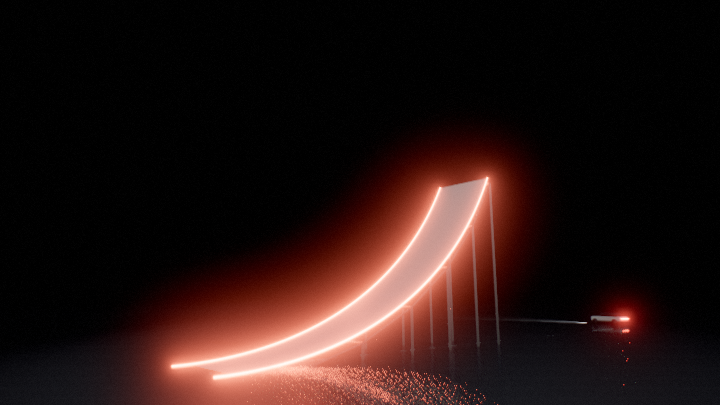
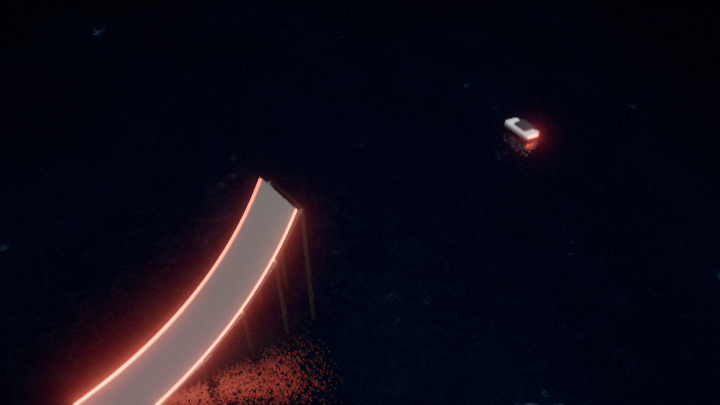
Night Loop: five refinement passes toward the reference
Dimmer night grade: red rim light removed, LED strips and bloom turned down.
A floor pool light follows the drift zone and the car. The overhead orbit is
set back between the ramp and the car, with a wider lens so both stay in frame.

Claude-Session: https://claude.ai/code/session_01CrqiDHUxRRMtQAfhoBc2eP

diff --git a/scenes/night-loop.html b/scenes/night-loop.html
@@ -17391,13 +17391,13 @@ const lerp3=(a,b,s)=>[a[0]+(b[0]-a[0])*s,a[1]+(b[1]-a[1])*s,a[2]+(b[2]-a[2])*s];
 eng.setFog({density:.004,falloff:.04,horizon:[1e6,2e6],rayleigh:0,mie:0,g:.76});
 eng.setClouds({coverage:0});
 eng.setTimeOfDay(-30,200,0);
-eng.setPost({tone:'agx',exposure:1.5,look:[1,1],saturation:1.08,curve:.22,bloom:.35,threshold:.9,knee:.5,grain:.02,chromatic:.003,vignette:.45,dofMaxCoC:10});
+eng.setPost({tone:'agx',exposure:1.5,look:[1,1],saturation:1.08,curve:.22,bloom:.2,threshold:.9,knee:.5,grain:.02,chromatic:.003,vignette:.45,dofMaxCoC:10});
 cam.fstop=2.8;cam.bokehScale=2;cam.shutterAngle=180;
 eng.addObject({m:eng.addMesh(place(genBox(900,.4,900),{mid:[0,-.2,0]})),p:[0,0,0],s:1,rot:[0,0,0],mat:{a:[.022,.022,.026],m:0,r:.5,wet:.5}});
 eng.addObject({m:eng.addMesh(place(genBox(44,.02,.2),{mid:[26,.01,0]})),p:[0,0,0],s:1,rot:[0,0,0],mat:{a:[.7,.7,.68],m:0,r:.6}});
-const flood=eng.addLight({type:'spot',pos:[-40,46,40],dir:[.6,-.6,-.5],color:[1,.96,.9],intensity:900,range:200,angle:.34,inner:.22});
+const flood=eng.addLight({type:'spot',pos:[-40,46,40],dir:[.6,-.6,-.5],color:[1,.96,.9],intensity:500,range:200,angle:.34,inner:.22});
 flood.dir=v3.norm(v3.sub([14,6,-2],flood.pos));
-eng.addLight({type:'point',pos:[18,14,-16],color:[1,.1,.05],intensity:9,range:60});
+const pool=eng.addLight({type:'spot',pos:[57,40,-5],dir:[0,-1,0],color:[1,.97,.92],intensity:250,range:90,angle:.22,inner:.15});
 
 /* ---------- the ramp: a circular arc of radius R, from horizontal on the ground up to 60 degrees; steel frame underneath ---------- */
 const R=24,PHI=Math.PI/3,W=4.4,HALF=W/2;
@@ -17405,10 +17405,10 @@ const curve=ph=>({p:[R*Math.sin(ph),R*(1-Math.cos(ph)),0],T:[Math.cos(ph),Math.s
 eng.addObject({m:eng.addMesh(sweep(56,4,(s,w)=>{const c=curve(s*PHI);return {p:[c.p[0],c.p[1],(w-.5)*W],n:c.N};})),p:[0,0,0],s:1,rot:[0,0,0],mat:{a:[.34,.34,.35],m:0,r:.6,wet:.4}});
 /* red LED edge strips along both kerbs */
 for(const z of [-HALF,HALF]){const pts=[];for(let k=0;k<=40;k++){const c=curve(k/40*PHI);pts.push([c.p[0]+c.N[0]*.06,c.p[1]+c.N[1]*.06,z]);}
- eng.addRibbon({points:pts,width:.09,color:[1,.12,.06],intensity:2.2,taper:false});}
+ eng.addRibbon({points:pts,width:.09,color:[1,.12,.06],intensity:1.6,taper:false});}
 /* steel frame under the outer side of the ramp */
 const steel=[],A=(k,z)=>{const c=curve(k/6*PHI);return [c.p[0]-c.N[0]*.6,c.p[1]-c.N[1]*.6,z];};
-for(let k=0;k<=6;k++){for(const z of [-HALF*.9,HALF*.9]){const a=A(k,z);if(a[1]>.3)steel.push(tube([a[0],0,z],a,.12));}
+for(let k=0;k<=6;k++){for(const z of [-HALF*.9,HALF*.9]){const a=A(k,z);if(a[1]>.3)steel.push(tube([a[0],0,z],a,.16));}
  if(k>=2)steel.push(tube(A(k,-HALF*.9),A(k,HALF*.9),.1));
  if(k<6)for(const z of [-HALF*.9,HALF*.9])steel.push(tube(A(k,z),A(k+1,z),.08));}
 eng.addObject({m:eng.addMesh(mergeG(steel)),p:[0,0,0],s:1,rot:[0,0,0],mat:{a:[.12,.12,.13],m:.8,r:.4}});
@@ -17462,7 +17462,7 @@ function shot(T){
  if(T<14){const c=carPose(T).pos;return {pos:[36,2.4,14],tgt:v3.add(c,[0,1,0]),fov:44,focus:c};}
  if(T<22){const s=(T-14)/8;return {pos:lerp3([30,46,40],[26,58,30],s),tgt:[30,0,-2],fov:50,focus:[30,0,-2]};}
  if(T<29){const s=(T-22)/7;return {pos:lerp3([-10,1.2,22],[-8,1.6,20],s),tgt:[10,9,0],fov:46,focus:[10,9,0]};}
- if(T<37){const e=carPose(TSTOP).pos,a=(T-29)*.5;return {pos:[e[0]+8*Math.cos(a),2.2,e[2]+8*Math.sin(a)],tgt:v3.add(e,[0,.8,0]),fov:40,focus:e};}
+ if(T<37){const a=(T-29)*.5,m=[32,2,-5];return {pos:[m[0]+36*Math.cos(a),32,m[2]+36*Math.sin(a)],tgt:m,fov:46,focus:m};}
  const s=Math.min((T-37)/9,1);return {pos:lerp3([44,12,46],[70,22,80],s),tgt:[22,8,0],fov:46,focus:[22,8,0]};}
 
 /* ---------- HUD and the viewer's orbit (drag, pinch, wheel; double-tap or Film returns) ---------- */

diff --git a/scenes/night-loop.scene.js b/scenes/night-loop.scene.js
@@ -54,13 +54,13 @@ const lerp3=(a,b,s)=>[a[0]+(b[0]-a[0])*s,a[1]+(b[1]-a[1])*s,a[2]+(b[2]-a[2])*s];
 eng.setFog({density:.004,falloff:.04,horizon:[1e6,2e6],rayleigh:0,mie:0,g:.76});
 eng.setClouds({coverage:0});
 eng.setTimeOfDay(-30,200,0);
-eng.setPost({tone:'agx',exposure:1.5,look:[1,1],saturation:1.08,curve:.22,bloom:.35,threshold:.9,knee:.5,grain:.02,chromatic:.003,vignette:.45,dofMaxCoC:10});
+eng.setPost({tone:'agx',exposure:1.5,look:[1,1],saturation:1.08,curve:.22,bloom:.2,threshold:.9,knee:.5,grain:.02,chromatic:.003,vignette:.45,dofMaxCoC:10});
 cam.fstop=2.8;cam.bokehScale=2;cam.shutterAngle=180;
 eng.addObject({m:eng.addMesh(place(genBox(900,.4,900),{mid:[0,-.2,0]})),p:[0,0,0],s:1,rot:[0,0,0],mat:{a:[.022,.022,.026],m:0,r:.5,wet:.5}});
 eng.addObject({m:eng.addMesh(place(genBox(44,.02,.2),{mid:[26,.01,0]})),p:[0,0,0],s:1,rot:[0,0,0],mat:{a:[.7,.7,.68],m:0,r:.6}});
-const flood=eng.addLight({type:'spot',pos:[-40,46,40],dir:[.6,-.6,-.5],color:[1,.96,.9],intensity:900,range:200,angle:.34,inner:.22});
+const flood=eng.addLight({type:'spot',pos:[-40,46,40],dir:[.6,-.6,-.5],color:[1,.96,.9],intensity:500,range:200,angle:.34,inner:.22});
 flood.dir=v3.norm(v3.sub([14,6,-2],flood.pos));
-eng.addLight({type:'point',pos:[18,14,-16],color:[1,.1,.05],intensity:9,range:60});
+const pool=eng.addLight({type:'spot',pos:[57,40,-5],dir:[0,-1,0],color:[1,.97,.92],intensity:250,range:90,angle:.22,inner:.15});
 
 /* ---------- the ramp: a circular arc of radius R, from horizontal on the ground up to 60 degrees; steel frame underneath ---------- */
 const R=24,PHI=Math.PI/3,W=4.4,HALF=W/2;
@@ -68,10 +68,10 @@ const curve=ph=>({p:[R*Math.sin(ph),R*(1-Math.cos(ph)),0],T:[Math.cos(ph),Math.s
 eng.addObject({m:eng.addMesh(sweep(56,4,(s,w)=>{const c=curve(s*PHI);return {p:[c.p[0],c.p[1],(w-.5)*W],n:c.N};})),p:[0,0,0],s:1,rot:[0,0,0],mat:{a:[.34,.34,.35],m:0,r:.6,wet:.4}});
 /* red LED edge strips along both kerbs */
 for(const z of [-HALF,HALF]){const pts=[];for(let k=0;k<=40;k++){const c=curve(k/40*PHI);pts.push([c.p[0]+c.N[0]*.06,c.p[1]+c.N[1]*.06,z]);}
- eng.addRibbon({points:pts,width:.09,color:[1,.12,.06],intensity:2.2,taper:false});}
+ eng.addRibbon({points:pts,width:.09,color:[1,.12,.06],intensity:1.6,taper:false});}
 /* steel frame under the outer side of the ramp */
 const steel=[],A=(k,z)=>{const c=curve(k/6*PHI);return [c.p[0]-c.N[0]*.6,c.p[1]-c.N[1]*.6,z];};
-for(let k=0;k<=6;k++){for(const z of [-HALF*.9,HALF*.9]){const a=A(k,z);if(a[1]>.3)steel.push(tube([a[0],0,z],a,.12));}
+for(let k=0;k<=6;k++){for(const z of [-HALF*.9,HALF*.9]){const a=A(k,z);if(a[1]>.3)steel.push(tube([a[0],0,z],a,.16));}
  if(k>=2)steel.push(tube(A(k,-HALF*.9),A(k,HALF*.9),.1));
  if(k<6)for(const z of [-HALF*.9,HALF*.9])steel.push(tube(A(k,z),A(k+1,z),.08));}
 eng.addObject({m:eng.addMesh(mergeG(steel)),p:[0,0,0],s:1,rot:[0,0,0],mat:{a:[.12,.12,.13],m:.8,r:.4}});
@@ -125,7 +125,7 @@ function shot(T){
  if(T<14){const c=carPose(T).pos;return {pos:[36,2.4,14],tgt:v3.add(c,[0,1,0]),fov:44,focus:c};}
  if(T<22){const s=(T-14)/8;return {pos:lerp3([30,46,40],[26,58,30],s),tgt:[30,0,-2],fov:50,focus:[30,0,-2]};}
  if(T<29){const s=(T-22)/7;return {pos:lerp3([-10,1.2,22],[-8,1.6,20],s),tgt:[10,9,0],fov:46,focus:[10,9,0]};}
- if(T<37){const e=carPose(TSTOP).pos,a=(T-29)*.5;return {pos:[e[0]+8*Math.cos(a),2.2,e[2]+8*Math.sin(a)],tgt:v3.add(e,[0,.8,0]),fov:40,focus:e};}
+ if(T<37){const a=(T-29)*.5,m=[32,2,-5];return {pos:[m[0]+36*Math.cos(a),32,m[2]+36*Math.sin(a)],tgt:m,fov:46,focus:m};}
  const s=Math.min((T-37)/9,1);return {pos:lerp3([44,12,46],[70,22,80],s),tgt:[22,8,0],fov:46,focus:[22,8,0]};}
 
 /* ---------- HUD and the viewer's orbit (drag, pinch, wheel; double-tap or Film returns) ---------- */
